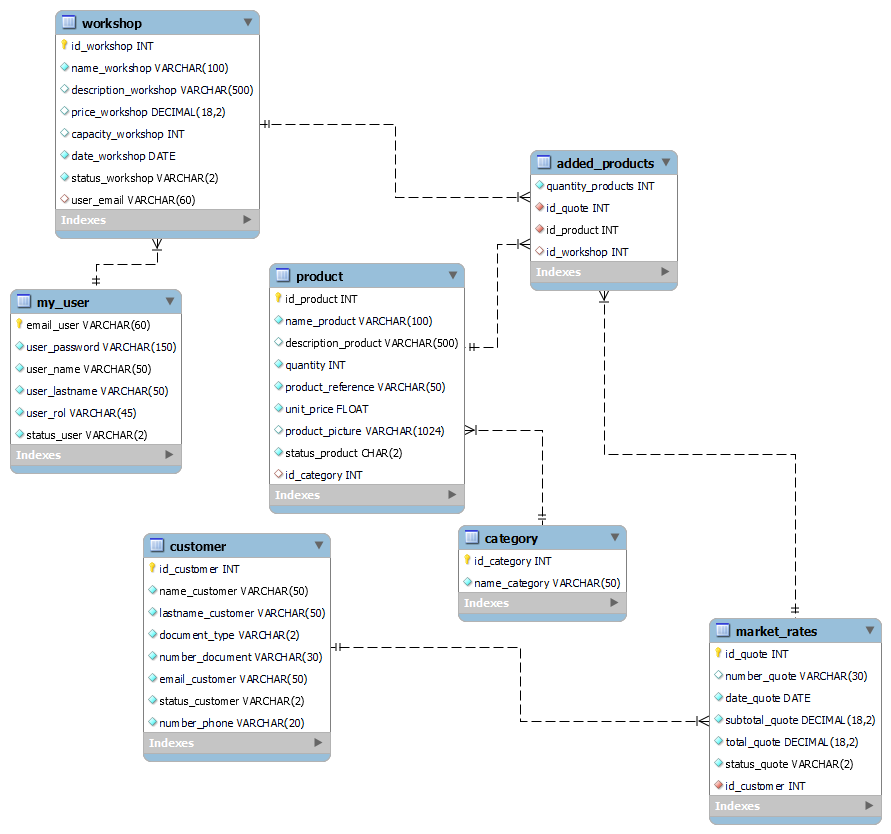
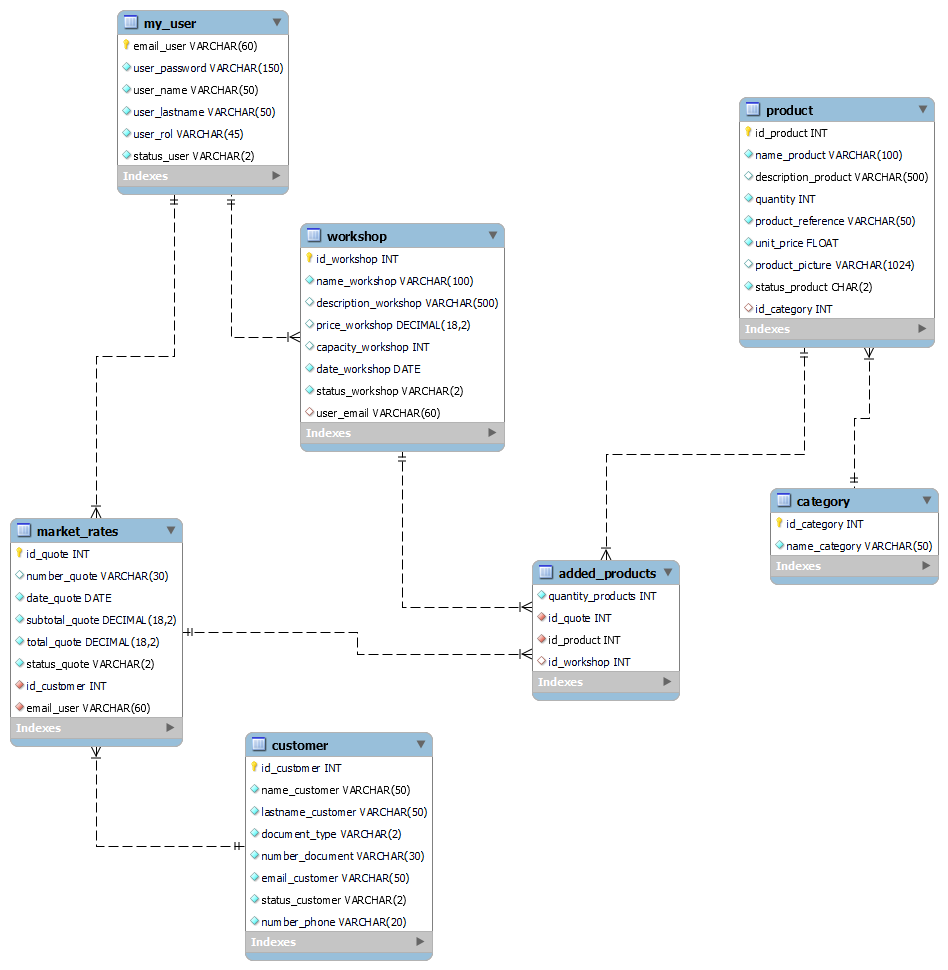
Now yes xd

diff --git a/models/quotationModel.js b/models/quotationModel.js
@@ -40,9 +40,13 @@ const quotationModel = db.define('MARKET_RATES', {
         type: DataTypes.STRING,
         allowNull: false,
         field: "status_quote"
+    },
+    email_user: {
+        type: DataTypes.STRING,
+        allowNull: false,
+        field: "email_user"
     }
 
 })
-
 
 export default quotationModel
